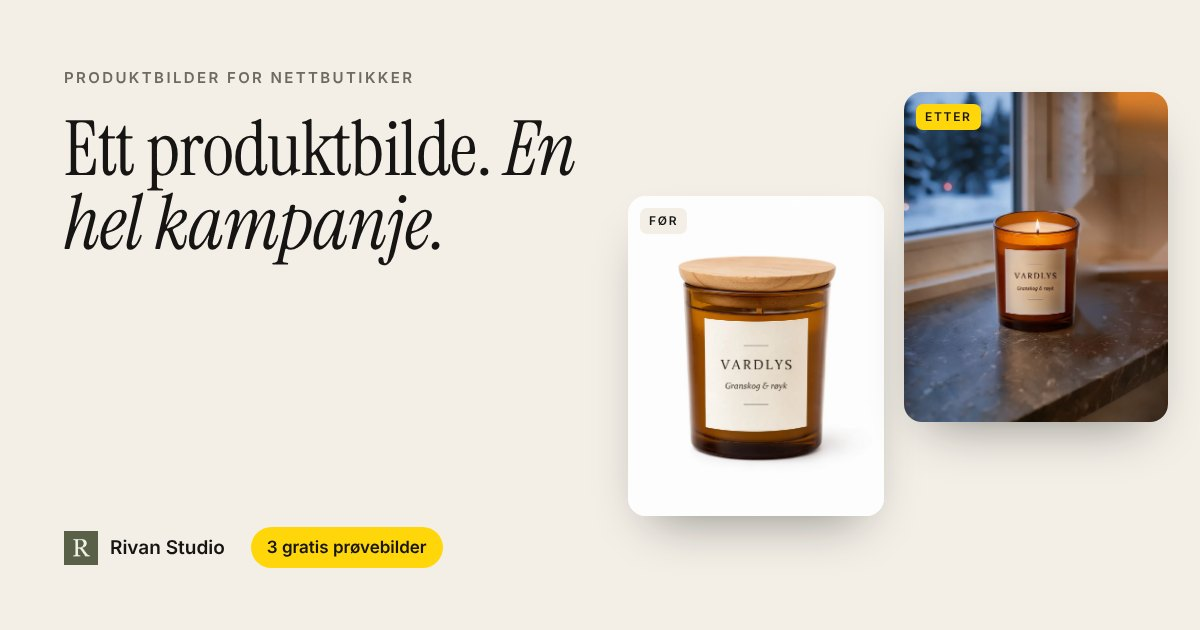
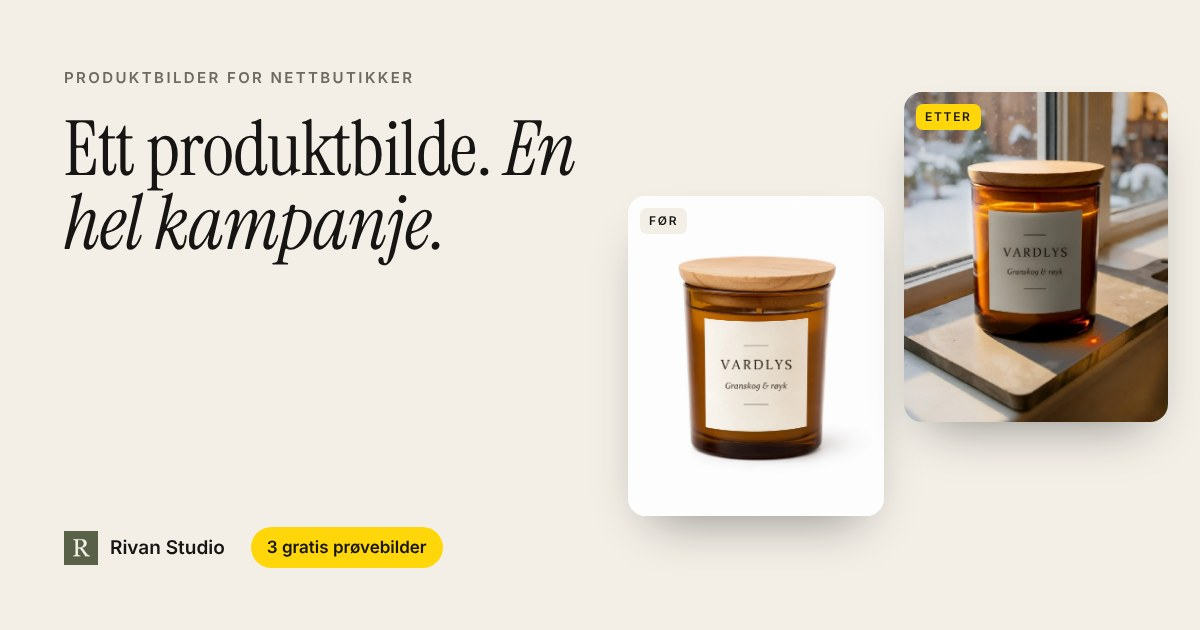
produktbilder: Vardlys C med samme glass og lokk som før-bildet
Det gamle Vardlys-bildet hadde et lavere glass uten lokk, så produktet
endret form i før/etter-glideren. Vardlys C er låst til packshot-omrisset
(IoU 0,977), med lokket på og lav vintersol. og.jpg, alt-tekster og
fanetekst er oppdatert.

Claude-Session: https://claude.ai/code/session_01XYMWMmzZAfnwjmekNJhn6w

Changed region(s): [[0.74, 0.1206, 0.9867, 0.6937], [0.925, 0.6635, 0.9558, 0.6937]]

diff --git a/produktbilder/index.html b/produktbilder/index.html
@@ -324,7 +324,7 @@ html.lenis,html.lenis body{height:auto}.lenis.lenis-smooth{scroll-behavior:auto!
     </div>
     <div>
       <div class="ba" id="ba" style="--x:62%"><span class="cur" aria-hidden="true">Dra</span>
-        <img src="img/vardlys-vindu.webp" srcset="img/vardlys-vindu-540.webp 540w, img/vardlys-vindu.webp 1080w" sizes="(max-width:900px) 92vw, 560px" width="1080" height="1350" alt="Etter: duftlyset tent i en vinduskarm en vinterkveld, med snødekt granskog utenfor" fetchpriority="high">
+        <img src="img/vardlys-vindu.webp" srcset="img/vardlys-vindu-540.webp 540w, img/vardlys-vindu.webp 1080w" sizes="(max-width:900px) 92vw, 560px" width="1080" height="1350" alt="Etter: duftlyset med trelokket på i en vinduskarm i lav vintersol, med snødekt hage utenfor" fetchpriority="high">
         <div class="b-wrap"><img src="img/vardlys-for.webp" srcset="img/vardlys-for-540.webp 540w, img/vardlys-for.webp 1080w" sizes="(max-width:900px) 92vw, 560px" width="1080" height="1350" alt="Før: vanlig produktbilde av duftlyset på hvit bakgrunn"></div>
         <span class="bar" aria-hidden="true"></span>
         <span class="t f">Før</span><span class="t e">Etter</span>
@@ -342,7 +342,7 @@ html.lenis,html.lenis body{height:auto}.lenis.lenis-smooth{scroll-behavior:auto!
     <div class="tile for"><img src="img/ravnsbrygg-for.webp" srcset="img/ravnsbrygg-for-540.webp 540w, img/ravnsbrygg-for.webp 1080w" sizes="(max-width:900px) 200px, 280px" width="1080" height="1350" alt="Før: kaffeposen på hvit bakgrunn" decoding="async"><span class="chip">Før</span></div>
     <div class="tile"><img src="img/ravnsbrygg-kjokken.webp" srcset="img/ravnsbrygg-kjokken-540.webp 540w, img/ravnsbrygg-kjokken.webp 1080w" sizes="(max-width:900px) 200px, 280px" width="1080" height="1350" alt="Etter: kaffeposen på et kjøkkenbord i tre en kveld, med lysslynger i bakgrunnen" decoding="async"></div>
     <div class="tile for"><img src="img/vardlys-for.webp" srcset="img/vardlys-for-540.webp 540w, img/vardlys-for.webp 1080w" sizes="(max-width:900px) 200px, 280px" width="1080" height="1350" alt="Før: duftlyset på hvit bakgrunn" decoding="async"><span class="chip">Før</span></div>
-    <div class="tile"><img src="img/vardlys-vindu.webp" srcset="img/vardlys-vindu-540.webp 540w, img/vardlys-vindu.webp 1080w" sizes="(max-width:900px) 200px, 280px" width="1080" height="1350" alt="Etter: duftlyset tent i en vinduskarm en vinterkveld" decoding="async"></div>
+    <div class="tile"><img src="img/vardlys-vindu.webp" srcset="img/vardlys-vindu-540.webp 540w, img/vardlys-vindu.webp 1080w" sizes="(max-width:900px) 200px, 280px" width="1080" height="1350" alt="Etter: duftlyset i en vinduskarm i lav vintersol" decoding="async"></div>
   </div>
   <button class="wall-pause" id="wall-pause" type="button" aria-pressed="false">Pause bildene</button>
 </section>
@@ -356,13 +356,13 @@ html.lenis,html.lenis body{height:auto}.lenis.lenis-smooth{scroll-behavior:auto!
       <div class="tabs" role="tablist" aria-label="Velg bilde">
         <button class="tab" role="tab" aria-selected="true" aria-controls="m2" id="t2"><span>01</span><b>Kaffe hjemme</b><small>Kjøkkenbordet en desemberkveld, med lysslynger på hylla. Til nettbutikken og julekampanjen.</small></button>
         <button class="tab" role="tab" aria-selected="false" aria-controls="m3" id="t3"><span>02</span><b>Nattkrem</b><small>Nattbordet en vinterkveld, med en klatt krem på en stein og lysslynge i vinduet. Rolig og varmt.</small></button>
-        <button class="tab" role="tab" aria-selected="false" aria-controls="m4" id="t4"><span>03</span><b>Duftlys</b><small>Vinduskarm en vinterkveld, med snødekt granskog utenfor. Varmt og nordisk.</small></button>
+        <button class="tab" role="tab" aria-selected="false" aria-controls="m4" id="t4"><span>03</span><b>Duftlys</b><small>Vinduskarm i lav vintersol, med snødekt hage utenfor. Lyst og nordisk.</small></button>
       </div>
     </div>
     <div class="stage rv mask">
       <div class="pane on" id="m2" role="tabpanel" aria-labelledby="t2"><img src="img/ravnsbrygg-kjokken.webp" srcset="img/ravnsbrygg-kjokken-540.webp 540w, img/ravnsbrygg-kjokken.webp 1080w" sizes="(max-width:900px) 92vw, 640px" width="1080" height="1350" alt="Kaffeposen på et kjøkkenbord i tre en desemberkveld, med lysslynger i bakgrunnen" loading="lazy" decoding="async"><div class="inset"><img src="img/ravnsbrygg-for.webp" srcset="img/ravnsbrygg-for-540.webp 540w, img/ravnsbrygg-for.webp 1080w" sizes="160px" width="1080" height="1350" alt="Før: kaffeposen på hvit bakgrunn" loading="lazy" decoding="async"><b>Før</b></div></div>
       <div class="pane" id="m3" role="tabpanel" aria-labelledby="t3"><img src="img/lunnhei-kveld.webp" srcset="img/lunnhei-kveld-540.webp 540w, img/lunnhei-kveld.webp 1080w" sizes="(max-width:900px) 92vw, 640px" width="1080" height="1350" alt="Nattkremen på et nattbord i tre en vinterkveld, med en klatt krem på en stein og soverommet i bakgrunnen" loading="lazy" decoding="async"><div class="inset"><img src="img/lunnhei-for.webp" srcset="img/lunnhei-for-540.webp 540w, img/lunnhei-for.webp 1080w" sizes="160px" width="1080" height="1350" alt="Før: nattkremen på hvit bakgrunn" loading="lazy" decoding="async"><b>Før</b></div></div>
-      <div class="pane" id="m4" role="tabpanel" aria-labelledby="t4"><img src="img/vardlys-vindu.webp" srcset="img/vardlys-vindu-540.webp 540w, img/vardlys-vindu.webp 1080w" sizes="(max-width:900px) 92vw, 640px" width="1080" height="1350" alt="Duftlyset tent i en vinduskarm en vinterkveld" loading="lazy" decoding="async"><div class="inset"><img src="img/vardlys-for.webp" srcset="img/vardlys-for-540.webp 540w, img/vardlys-for.webp 1080w" sizes="160px" width="1080" height="1350" alt="Før: duftlyset på hvit bakgrunn" loading="lazy" decoding="async"><b>Før</b></div></div>
+      <div class="pane" id="m4" role="tabpanel" aria-labelledby="t4"><img src="img/vardlys-vindu.webp" srcset="img/vardlys-vindu-540.webp 540w, img/vardlys-vindu.webp 1080w" sizes="(max-width:900px) 92vw, 640px" width="1080" height="1350" alt="Duftlyset med trelokket på i en vinduskarm i lav vintersol" loading="lazy" decoding="async"><div class="inset"><img src="img/vardlys-for.webp" srcset="img/vardlys-for-540.webp 540w, img/vardlys-for.webp 1080w" sizes="160px" width="1080" height="1350" alt="Før: duftlyset på hvit bakgrunn" loading="lazy" decoding="async"><b>Før</b></div></div>
     </div>
   </div>
 </section>
